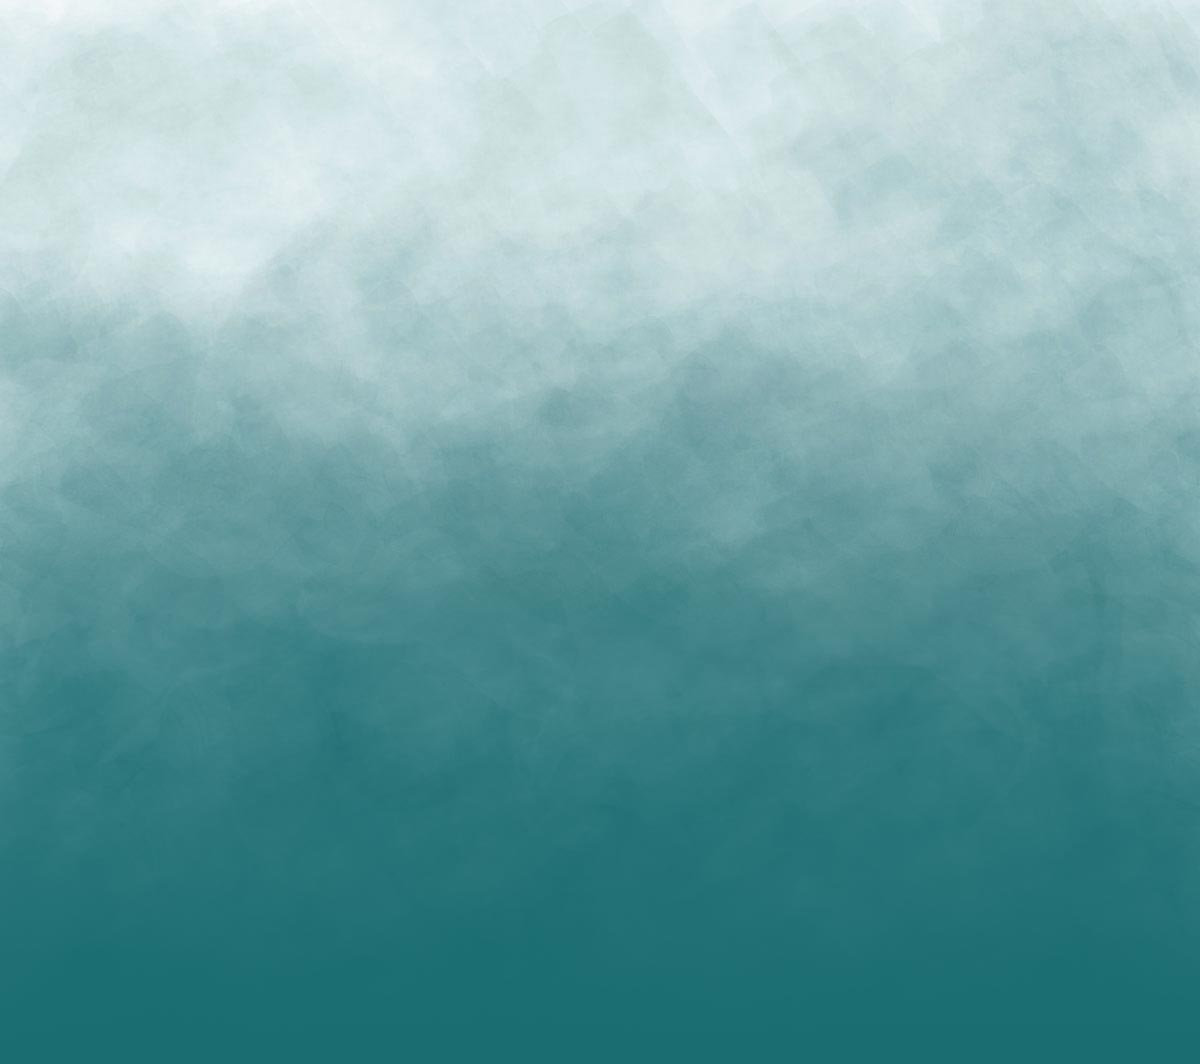
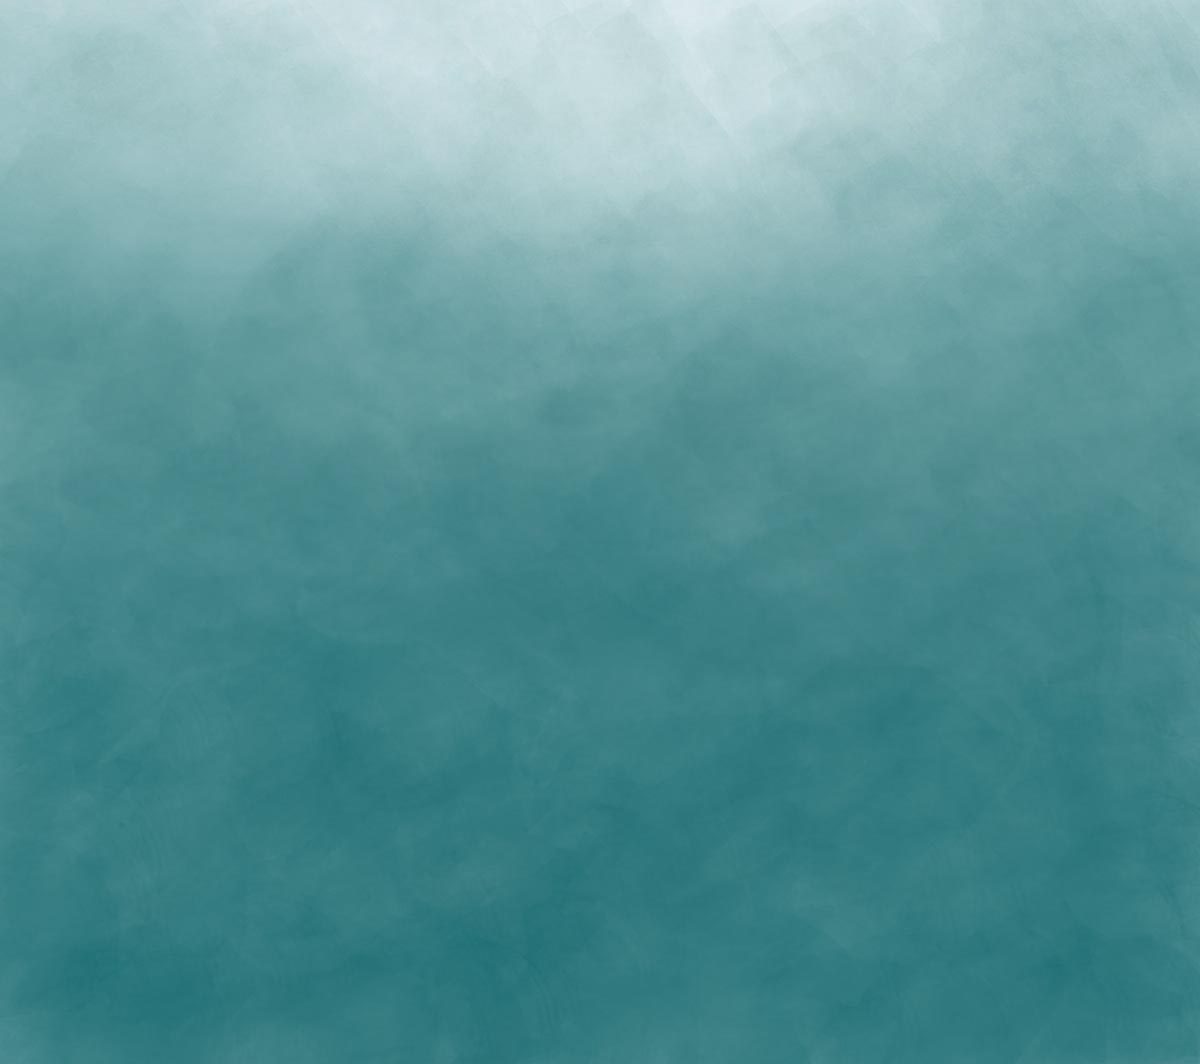
better background

diff --git a/storybook-holiday/index.html b/storybook-holiday/index.html
@@ -81,7 +81,7 @@ e.async=true;var t=document.getElementsByTagName("script")[0];t.parentNode.inser
 <style>
 @font-face {
 	font-family: 'Sunshine Script';
-	src: url('../shared-assets//web-fonts/sunshine_script-webfont.woff2') format('woff2'), url('../shared-assets//web-fonts/sunshine_script-webfont.woff') format('woff'), url('shared-assets/web-fonts/sunshine_script-webfont.ttf') format('truetype');
+	src: url('../shared-assets/web-fonts/sunshine_script-webfont.woff2') format('woff2'), url('../shared-assets/web-fonts/sunshine_script-webfont.woff') format('woff'), url('../shared-assets/web-fonts/sunshine_script-webfont.ttf') format('truetype');
 	font-weight: normal;
 	font-style: normal;
 }
@@ -89,11 +89,7 @@ e.async=true;var t=document.getElementsByTagName("script")[0];t.parentNode.inser
 	font-family: 'Sunshine Script', cursive;
 }
 .wrapper-row {
-	background-color: #1a6d71;
-	background-repeat: no-repeat;
-	background-position: center center;
-	background-size: cover;
-	background-attachment: fixed;
+	background: #1a6d71 url("background.jpg") top center/cover;
 }
 </style>
 <!-- InstanceEndEditable -->
@@ -272,33 +268,33 @@ height="0" width="0" style="display:none;visibility:hidden"></iframe>
 </nav>
 <!-- End Mobile Navbar -->
 <div class="container-fluid">
-  <div class="row alert-warning">
-    <div id="global-alert" class="container-md" style="display:none;"></div>
+<div class="row alert-warning">
+  <div id="global-alert" class="container-md" style="display:none;"></div>
+</div>
+<!-- InstanceBeginEditable name="Content" -->
+<div class="row wrapper-row">
+  <div class="container text-center white padding-top-30"><img class="img-responsive image-center" src="nutcraker.png" alt="Storybook Holiday, The Nutcracker">
+    <h4 class="roboto white">Celebrate the holiday season with DCL! Our Lone Tree location will magically transform into the holiday wonderland of The Nutcracker and Clara’s sugar-plum dreams.</h4>
   </div>
-  <!-- InstanceBeginEditable name="Content" -->
-  <div style="background-image: url(background.jpg);" class="row wrapper-row">
-    <div class="container text-center white padding-top-30"><img class="img-responsive image-center" src="nutcraker.png" alt="Storybook Holiday, The Nutcracker">
-      <h4 class="roboto white">Celebrate the holiday season with DCL! Our Lone Tree location will magically transform into the holiday wonderland of The Nutcracker and Clara’s sugar-plum dreams.</h4>
+  <div class="container white">
+    <div class="col-md-6 padding-bottom-30">
+      <h1 class="sunshine white text-center">Evening Edition</h1>
+      <div class="large-text text-center text-capitalize font-weight-400">Saturday, December 7, 5-9PM </div>
+      <div>Join us for a holiday party extravaganza! Enjoy a visit with Santa, live performances of your favorite Nutcracker vignettes, music and entertainment, and make-and-take gifts, plus a delectable menu of light dinner bites, hot cocoa concoctions, and other beverages.</div>
+      <div>Tickets: $25 (adults), $20 (ages 3-12)</div>
     </div>
-    <div class="container white">
-      <div class="col-md-6">
-        <h1 class="sunshine white text-center">Evening Edition</h1>
-        <div>Saturday, December 7, 5-9PM
-          <div>
-            <div>Join us for a holiday party extravaganza! Enjoy a visit with Santa, live performances of your favorite Nutcracker vignettes, music and entertainment, and make-and-take gifts, plus a delectable menu of light dinner bites, hot cocoa concoctions, and other beverages.</div>
-            <div>Tickets: $25 (adults), $20 (ages 3-12)</div>
-          </div>
-        </div>
-      </div>
-      <div class="col-md-6">
-        <h1 class="sunshine white text-center">Brunch Edition</h1>
-        <div>Sunday, December 8, 9-11AM</div>
-        <div>Our whimsical holiday brunch includes the same festive activities as our evening event, but over brunch. Visit with Santa and enjoy live performances of your favorite Nutcracker pieces, music and entertainment, and make-and-take gifts, plus a delicious menu of brunch bites, hot cocoa concoctions, and other beverages.</div>
-        <div>Tickets: $22 (adults), $18 (ages 3-12)</div>
-      </div>
-    </div>
-  </div>
-  <!-- InstanceEndEditable --> </div>
+
+
+<div class="col-md-6 padding-bottom-30">
+  <h1 class="sunshine white text-center">Brunch Edition</h1>
+  <h4 class="white text-center">Sunday, December 8, 9-11AM</h4>
+  <div>Our whimsical holiday brunch includes the same festive activities as our evening event, but over brunch. Visit with Santa and enjoy live performances of your favorite Nutcracker pieces, music and entertainment, and make-and-take gifts, plus a delicious menu of brunch bites, hot cocoa concoctions, and other beverages.</div>
+  <div>Tickets: $22 (adults), $18 (ages 3-12)</div>
+	  </div></div>
+</div>
+	
+<!-- InstanceEndEditable -->
+</div>
 <div class="social-footer bg-gray-10 padding-top-15 padding-bottom-20">
   <div class="bg-gray-10 clearfix padding-bottom-20">
     <div class="col-sm-6">
